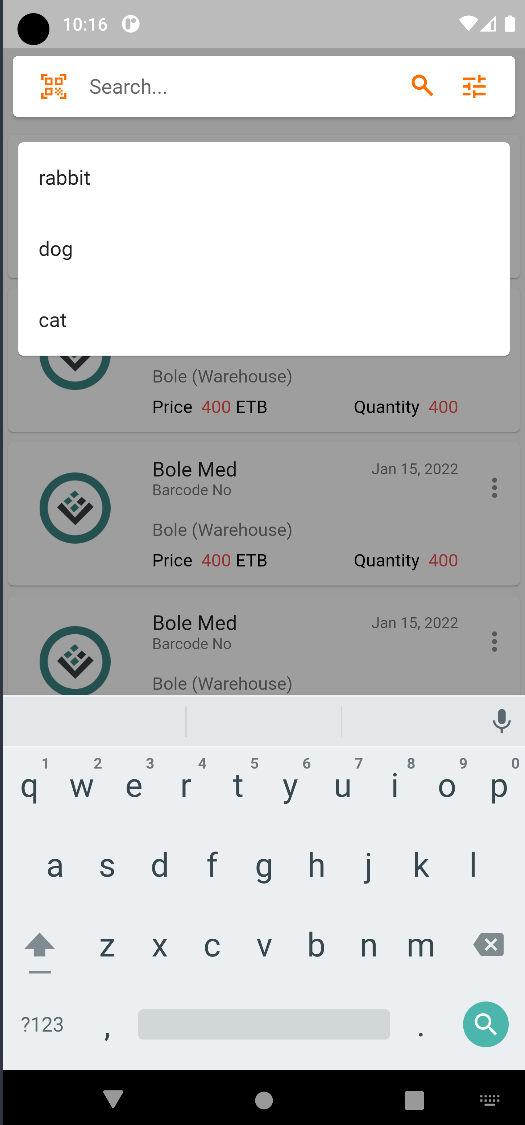
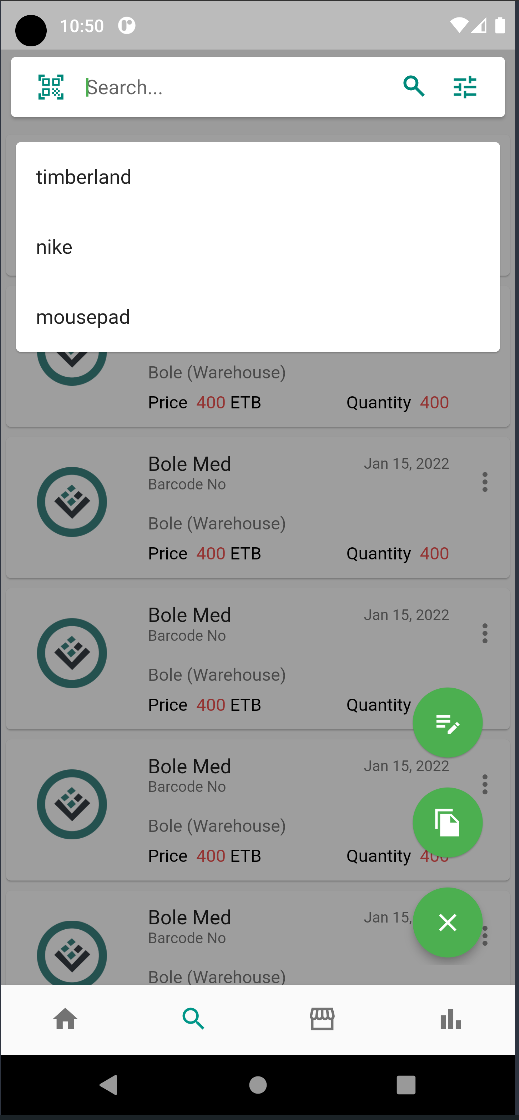
add app screenshot to readme file

diff --git a/lib/presentation/screens/report/widgets/inventory_report.dart b/lib/presentation/screens/report/widgets/inventory_report.dart
@@ -1,6 +1,9 @@
+import 'dart:math';
+
 import 'package:flutter/material.dart';
 import 'package:get/get.dart';
 import 'package:inventory_tracker/core/widgets/custom_dropdown.dart';
+import 'package:inventory_tracker/data/data.dart';
 import 'package:inventory_tracker/domain/controllers/report_controller.dart';
 import 'package:inventory_tracker/presentation/screens/Home/widgets/BarChartWrapper.dart';
 
@@ -123,31 +126,33 @@ class _InventoryReportState extends State<InventoryReport> {
               shrinkWrap: true,
               itemCount: 10,
               itemBuilder: (context, idx) {
+                final random = Random();
+                final randomNumber = random.nextInt(9);
                 return Card(
                   elevation: 0.5,
                   child: ListTile(
-                    title: const Text("Timberland"),
+                    title: Text(names[randomNumber]),
                     subtitle: RichText(
-                        text: const TextSpan(
+                        text: TextSpan(
                             text: 'Sold\t\t',
-                            style: TextStyle(color: Colors.black),
+                            style: const TextStyle(color: Colors.black),
                             children: [
                           TextSpan(
-                              text: "400",
-                              style: TextStyle(
+                              text: (randomNumber + 5).toString(),
+                              style: const TextStyle(
                                   color: Colors.black,
                                   fontWeight: FontWeight.bold)),
                         ])),
                     trailing: RichText(
-                      text: const TextSpan(
+                      text: TextSpan(
                           text: '+ ',
-                          style: TextStyle(
+                          style: const TextStyle(
                               color: Colors.green, fontWeight: FontWeight.bold),
                           children: [
                             TextSpan(
-                              text: "43k ",
+                              text: "$randomNumber.4k ",
                             ),
-                            TextSpan(
+                            const TextSpan(
                               text: "ETB",
                               style: TextStyle(
                                   color: Colors.black,

diff --git a/lib/presentation/screens/Home/home_screen.dart b/lib/presentation/screens/Home/home_screen.dart
@@ -46,7 +46,7 @@ class _HomePageState extends State<HomePage> {
                             height: 8,
                           ),
                           Text(
-                            "WELCOME, ${homeC.user?.fullName.split(' ')[0].toUpperCase()}",
+                            "WELCOME, ${homeC.user != null ? homeC.user?.fullName.split(' ')[0].toUpperCase() : "Nabek"}",
                             style: Theme.of(context).textTheme.titleLarge,
                           ),
                         ],
@@ -107,6 +107,8 @@ class _HomePageState extends State<HomePage> {
                     physics: const BouncingScrollPhysics(),
                     shrinkWrap: true,
                     itemBuilder: (ctx, int index) {
+                      final random = Random();
+                      final randomNumber = random.nextInt(9);
                       return index % 4 == 0
                           ? Column(
                               crossAxisAlignment: CrossAxisAlignment.start,
@@ -121,18 +123,17 @@ class _HomePageState extends State<HomePage> {
                                   ),
                                 ),
                                 TransactionListItem(
-                                    soldCount:
-                                        (index + 1) * Random(1).nextInt(10),
-                                    time: "1hr ago",
-                                    title: "Timer Land",
-                                    money: "4.4k")
+                                    soldCount: (index + 1) * randomNumber,
+                                    time: "${index + 1}hr ago",
+                                    title: names[randomNumber],
+                                    money: "$randomNumber.4k")
                               ],
                             )
                           : TransactionListItem(
-                              soldCount: (index + 1) * Random(1).nextInt(10),
-                              time: "1hr ago",
-                              title: "Timer Land",
-                              money: "4.4k");
+                              soldCount: (index + 1) * randomNumber,
+                              time: "${index + 1}hr ago",
+                              title: names[randomNumber],
+                              money: "$randomNumber.4k");
                     },
                     itemCount: 10,
                   ),

diff --git a/lib/core/common/theme.dart b/lib/core/common/theme.dart
@@ -3,7 +3,7 @@ import 'package:flutter/material.dart';
 class AppTheme {
   AppTheme._();
 
-  static final Color _iconColor = Colors.amber.shade900;
+  static final Color _iconColor = Colors.teal.shade600;
   static const Color _lightPrimaryColor = Color(0xFF546E7A);
   static const Color _lightPrimaryVariantColor = Color(0xFF394F53);
   static const Color _lightSecondaryColor = Colors.green;
@@ -54,8 +54,9 @@ class AppTheme {
       dividerTheme: const DividerThemeData(color: Colors.black));
 
   static const TextTheme _lightTextTheme = TextTheme(
-      displayLarge: _lightScreenHeading1TextStyle,
-      titleLarge: _lightTitleTextStyle);
+    displayLarge: _lightScreenHeading1TextStyle,
+    // titleLarge: _lightTitleTextStyle,
+  );
 
   static final TextTheme _darkTextTheme = TextTheme(
     displayLarge: _darkScreenHeading1TextStyle,

diff --git a/lib/data/data.dart b/lib/data/data.dart
@@ -1,5 +1,18 @@
 import 'package:inventory_tracker/presentation/screens/Home/widgets/BarChartWrapper.dart';
 
+List<String> names = [
+  "Knee-Hi",
+  "Kill shot 2"
+      "Air jordan",
+  "STRUT",
+  "Turn Heads",
+  "Catwalk",
+  "Stiletto",
+  "Solina",
+  "Trekist",
+  "Air jordan"
+];
+
 Map<int, ChartData> annualData = {
   1: ChartData("Jan", 15800),
   2: ChartData("Feb", 6800, true),

diff --git a/lib/presentation/screens/Search/search_screen.dart b/lib/presentation/screens/Search/search_screen.dart
@@ -24,7 +24,7 @@ class _SearchPageState extends State<SearchPage>
   late AnimationController controller;
   late FloatingSearchBarController searchBarController;
 
-  final searchLists = ["rabbit", "dog", "cat"];
+  final searchLists = ["timberland", "nike", "mousepad"];
 
   @override
   void initState() {

diff --git a/README.md b/README.md
@@ -27,8 +27,19 @@ Here are some of the key features of Inventory Management App:
 - **Batch Inventory Transfer:** The app supports batch inventory transfer between warehouses, making
   it easy to move inventory between locations.
 
-![alt text](./assets/screenshots/home.png)      ![alt text](./assets/screenshots/search.png)
-![alt text](./assets/screenshots/report.png)      ![alt text](./assets/screenshots/filter.png)
+<p align="center">
+  <img alt="Light" src="./assets/screenshots/home.png" width="25%">
+&nbsp; &nbsp; &nbsp; &nbsp;
+  <img alt="Dark" src="./assets/screenshots/search.png" width="25%">
+&nbsp; &nbsp; &nbsp; &nbsp;
+  <img alt="Dark" src="./assets/screenshots/report.png" width="25%">
+&nbsp; &nbsp; &nbsp; &nbsp;
+  <img alt="Dark" src="./assets/screenshots/warehouse.png" width="25%">
+
+ <img alt="Dark" src="./assets/screenshots/add.png" width="25%">
+&nbsp; &nbsp; &nbsp; &nbsp;
+  <img alt="Dark" src="./assets/screenshots/filter.png" width="25%">
+</p>
 
 ## Getting Started
 
